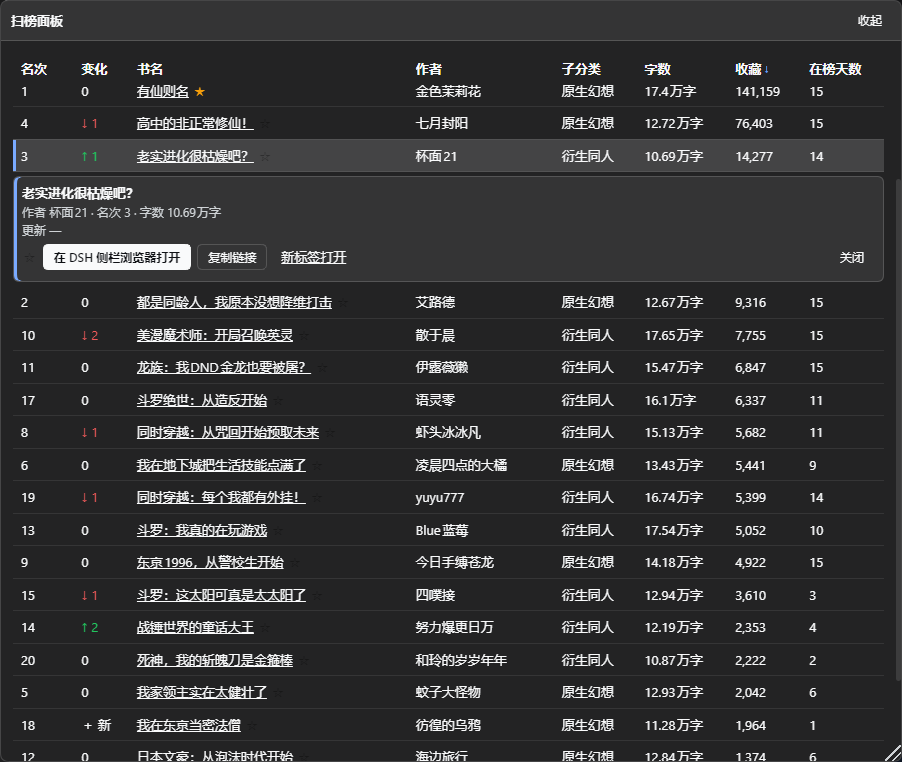
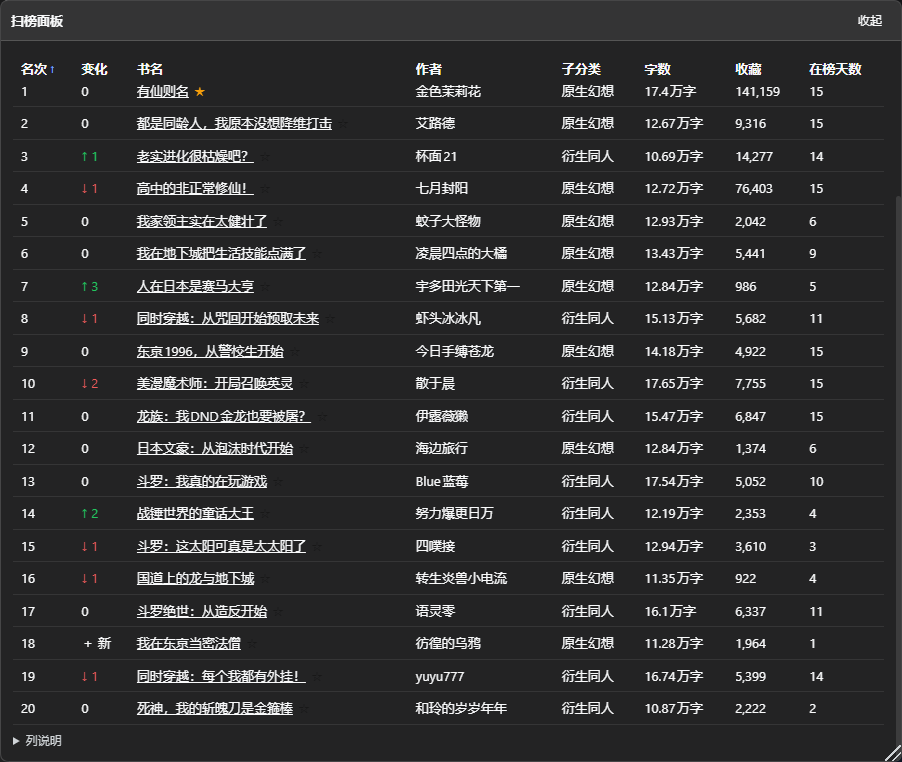
fix(rank-scan): 默认排序改用 defaultSortKey，移除名次排序项
宿主 sortOptions 不再提供 rank；sort=rank 视同未指定。响应新增 defaultSortKey（普通榜 rank 升序、三江 collectBase、派生榜 value 降序），/day 同带。客户端默认态按 defaultSortKey 激活表头，旧 sort=rank 偏好归为默认。新增宿主与客户端测试，重拍 900 暗色默认态截图。

diff --git a/src/index.ts b/src/index.ts
@@ -23,7 +23,7 @@ import { CATEGORIES as QIDIAN_CATEGORIES } from './sites/qidian-mobile.js'
 import { QIDIANTU_BOARDS, periodStartOf } from './sites/qidiantu.js'
 import { deriveFanqieViews } from './scan/derive.js'
 import { decodePua, hasPua, learnPair, loadFontMap, saveFontMap } from './scan/fontmap.js'
-import { applyColumnPolicy, batchKeyOf, batchKindOf, batchLabelOf, boardMeta, columnsFor, compareDesc, defaultSortFor, enrichAttemptPolicy, enrichMissingCount, groupBySite, groupChanges, isBatchBoard, isEnrichableBoard, saleRangeOf, shouldShowDays, usesRankDelta, withFanqieCat } from './scan/view.js'
+import { applyColumnPolicy, batchKeyOf, batchKindOf, batchLabelOf, boardMeta, columnsFor, compareDesc, defaultSortFor, defaultSortKeyFor, enrichAttemptPolicy, enrichMissingCount, groupBySite, groupChanges, isBatchBoard, isEnrichableBoard, saleRangeOf, shouldShowDays, usesRankDelta, withFanqieCat } from './scan/view.js'
 import { BookmarkService, BookmarkStore } from './scan/bookmark.js'
 import { displayLabel, extractTags, parseBookInput, urlFor, type SiteId } from './scan/bookmark-parse.js'
 import { decodeIfPua } from './scan/fontmap.js'
@@ -1649,7 +1649,7 @@ export function apply(ctx: PluginCtx, config: any): void {
       ]
     }
     const main = mainLabelOf(boardId, meta)
-    const opts = [{ value: '', label: '默认（名次）' }, { value: 'rank', label: '名次' }]
+    const opts = [{ value: '', label: '默认（名次）' }]
     // 列名口径：番茄主指标列叫 read（不是 value），排序值必须对上列 key 才不会被客户端过滤掉
     const mainKey = meta.site === 'fanqie' && !boardId.startsWith('fanqie.derived.') ? 'read' : 'value'
     if (meta.metric === 'value') opts.push({ value: mainKey, label: main })
@@ -1662,7 +1662,7 @@ export function apply(ctx: PluginCtx, config: any): void {
     // ★ 兜底过滤（2026-10-15）：排序项必须对应**该榜真实存在的列**，
     //   否则列被口径改掉后（比如三江去掉「已结算天数」），下拉里还残留一个按不存在字段排的项。
     const keys = new Set(applyColumnPolicy(columnsFor(meta, { hasBaseline: flags.hasHistory, hasHistory: flags.hasHistory }), boardId).map((c) => c.key))
-    return opts.filter((o) => !o.value || o.value === 'rank' || keys.has(o.value))
+    return opts.filter((o) => !o.value || keys.has(o.value))
   }
 
   /**
@@ -1703,8 +1703,10 @@ export function apply(ctx: PluginCtx, config: any): void {
   }
 
   async function panelBoard(boardId: string, dateArg?: string, sort?: string, limit = 0) {
+    const wantedSort = sort === 'rank' ? undefined : sort
     const { st, dates, latest } = panelCtx()
     const meta = boardMeta(boardId)
+    const defaultSortKey = defaultSortKeyFor(boardId)
     const store = new FileStore(root)
     /**
      * ★ 日期下拉按**该榜自己有快照的日期**过滤（2026-10-15 使用反馈）：
@@ -1731,7 +1733,7 @@ export function apply(ctx: PluginCtx, config: any): void {
     // 使用者 2026-10-15 点名起点图不要这一列 ⇒ 改成按榜查精简索引里有没有它更早的记录。
     if (!latest) {
       const colsNone = applyColumnPolicy(columnsFor(meta, { hasBaseline: false, hasHistory: false }), boardId)
-      return { boardId, meta, columns: colsNone, dataDate: null, dates: [], rows: [], note: '还没有任何快照：先点「立刻扫一次」' }
+      return { boardId, meta, columns: colsNone, dataDate: null, dates: [], rows: [], defaultSortKey, note: '还没有任何快照：先点「立刻扫一次」' }
     }
     // 到这里 latest 一定非空 ⇒ 把日期收窄成非空的本地量（TS 不会因为 latest 非空就收窄 useDate）
     const date = useDate as string
@@ -1759,12 +1761,13 @@ export function apply(ctx: PluginCtx, config: any): void {
       let rows = (v ? v.rows : []).map((r: any) => ({ ...r, days: r.extra && r.extra.inPoolDays != null ? r.extra.inPoolDays : null }))
       // ★ 派生榜必须**自己**应用排序（2026-10-15 发现「按在读排序没反应」）：
       //   这个分支 return 在通用排序代码**之前**，所以 sort 参数到这里就丢了。
-      const derivedSort = sort || defaultSortFor(boardId)
+      const derivedSort = wantedSort || defaultSortFor(boardId)
       if (derivedSort) rows = rows.slice().sort((a: any, b: any) => compareDesc(num(sortVal(a, derivedSort)), num(sortVal(b, derivedSort))))
       return {
         boardId,
         meta: { ...meta, mainLabel: mainLabelOf(boardId, meta) },
         columns,
+        defaultSortKey,
         sortOptions: sortOptionsFor(boardId, meta, { hasHistory }),
         depth: (st.depths || {})[boardId] ?? 30,
         dataDate: latest,
@@ -1790,7 +1793,7 @@ export function apply(ctx: PluginCtx, config: any): void {
         fallbackFrom = older
       }
     }
-    if (!snap) return { boardId, meta, columns, dataDate: useDate, dates: shownDates, rows: [], note: '该榜在这天没有快照（也没找到更早的可用快照）' }
+    if (!snap) return { boardId, meta, columns, dataDate: useDate, dates: shownDates, rows: [], defaultSortKey, note: '该榜在这天没有快照（也没找到更早的可用快照）' }
     const effDate = fallbackFrom || date
     /**
      * ★ 2026-10-25（批次榜）：这一屏属于哪一批。面板据此把「数据日期 / 对比 YYYY-MM-DD」
@@ -1829,6 +1832,7 @@ export function apply(ctx: PluginCtx, config: any): void {
       return {
         boardId,
         meta: { ...meta, mainLabel: mainLabelOf(boardId, meta) },
+        defaultSortKey,
         sortOptions: sortOptionsFor(boardId, meta, { hasHistory }),
         depth: (st.depths || {})[boardId] ?? (meta.site === 'fanqie' ? 30 : 10),
         columns,
@@ -2030,7 +2034,7 @@ export function apply(ctx: PluginCtx, config: any): void {
     // ★ 排序一律**倒序**（使用者 2026-10-15：按字数/收藏/首订排序要「最大的在前」）：
     //   num() 把缺失值统一成 +Infinity ⇒ 倒序时缺失值会被排到最后（不是最前），这正合口径。
     // ★ 该榜有自己的「默认排序」时，未显式选排序也按它排（使用者 2026-10-15：三江默认按期初收藏）
-    const effSort = sort || defaultSortFor(boardId)
+    const effSort = wantedSort || defaultSortFor(boardId)
     if (effSort) rows = rows.slice().sort((a: any, b: any) => compareDesc(num(sortVal(a, effSort)), num(sortVal(b, effSort))))
     if (limit > 0) rows = rows.slice(0, limit)
     /**
@@ -2064,6 +2068,7 @@ export function apply(ctx: PluginCtx, config: any): void {
     return {
       boardId,
       meta: { ...meta, mainLabel: mainLabelOf(boardId, meta) },
+      defaultSortKey,
       sortOptions: sortOptionsFor(boardId, meta, { hasHistory }),
       depth: (st.depths || {})[boardId] ?? (meta.site === 'fanqie' ? 30 : 10),
       columns,
@@ -3340,6 +3345,7 @@ export function apply(ctx: PluginCtx, config: any): void {
             }
             return send(200, {
               ok: true, boardId, date, saved: !!body.save, contentDate: verdict.contentDate, expected: verdict.expected,
+              defaultSortKey: defaultSortKeyFor(boardId),
               rowsAll: res.rows,
               count: res.rows.length,
               note: (body.save ? '已抓取并存入本地快照' : '直查站点该日期（未落盘）') + (verdict.contentDate ? '；内容日期 ' + verdict.contentDate : ''),

diff --git a/client/parts/70-board.js b/client/parts/70-board.js
@@ -6,14 +6,19 @@
      * 第六步（0.5.2）：榜单表头的排序 / 行键盘用的纯函数。
      * 只消费宿主已经给出的 columns / sortOptions，不做客户端排序，也不新增排序方式。
      */
-    const sortDirOf = function () { return 'descending' }
-    const sortableCols = function (cols, sortOptions) {
+    const sortableCols = function (cols, sortOptions, defKey, defDir) {
       const values = (sortOptions || []).map(function (o) { return o && o.value }).filter(function (v) { return !!v })
-      return (cols || []).filter(function (c) { return c && values.indexOf(c.key) >= 0 }).map(function (c) {
-        return { key: c.key, dir: sortDirOf(c.key) }
+      return (cols || []).filter(function (c) {
+        return c && (values.indexOf(c.key) >= 0 || (!!defKey && c.key === defKey))
+      }).map(function (c) {
+        return { key: c.key, dir: c.key === defKey ? (defDir || 'descending') : 'descending' }
       })
     }
-    const nextSort = function (cur, key) { return cur === key ? '' : key }
+    const nextSort = function (cur, key, defKey) {
+      if (key === defKey) return ''
+      return cur === key ? '' : key
+    }
+    const normalizeSortPref = function (v) { return v === 'rank' ? '' : (v || '') }
     /** 只给行号，详情行不参与；n 是数据行数量 */
     const nextRowIdx = function (i, key, n) {
       const last = Math.max(0, Number(n) - 1)
@@ -41,7 +46,7 @@
       } catch (e) { fail() }
     }
     // 离线测试缝：只暴露第六步的纯函数，不改变运行路径
-    window.__rankScanBoardTableTest = { sortableCols: sortableCols, nextSort: nextSort, nextRowIdx: nextRowIdx }
+    window.__rankScanBoardTableTest = { sortableCols: sortableCols, nextSort: nextSort, nextRowIdx: nextRowIdx, normalizeSortPref: normalizeSortPref }
 
     function BoardTab(props) {
       const ov = props.ov
@@ -55,9 +60,15 @@
       const sites = (ov && ov.sites) || []
       // 收起面板会卸载 BoardTab ⇒ 站/榜选择要持久化；日期/排序按榜各记各的
       const [stSite, setStSite] = React.useState(function () { return sel.get().site })
+      const sortPref = function (board) {
+        const raw = sel.pref(board, 'sort')
+        const v = normalizeSortPref(raw)
+        if (v !== raw) sel.setPref(board, 'sort', v)
+        return v
+      }
       const [bt, setBt] = React.useState(function () { return sel.get().board })
       const [sd, setSd] = React.useState(function () { return sel.pref(sel.get().board, 'date') })
-      const [ss, setSs] = React.useState(function () { return sel.pref(sel.get().board, 'sort') })
+      const [ss, setSs] = React.useState(function () { return sortPref(sel.get().board) })
       const [data, setData] = React.useState(null)
       const [err, setErr] = React.useState(null)
       const [pick, setPick] = React.useState(null)
@@ -154,7 +165,7 @@
           h('select', { value: value, onChange: function (e) { onChange(e.target.value) }, style: C.input },
             options.map(function (o) { return h('option', { key: o.value, value: o.value }, o.label) })))
       }
-      const pickBoard = function (v) { sel.set({ board: v }); setBt(v); setSd(sel.pref(v, 'date')); setSs(sel.pref(v, 'sort')); setPick(null); setDayOpen(false) }
+      const pickBoard = function (v) { sel.set({ board: v }); setBt(v); setSd(sel.pref(v, 'date')); setSs(sortPref(v)); setPick(null); setDayOpen(false) }
       const pickSite = function (v) { sel.set({ site: v, board: null }); setStSite(v); setBt(null); setSd(''); setSs(''); setPick(null); setDayOpen(false) }
       const pickDate = function (v) { setSd(v); sel.setPref(curBoard, 'date', v) }
       /** 「按上架日回看…」是动作项，不是日期值：不改当前选择，只在下面展开输入行 */
@@ -319,6 +330,7 @@
             boardId: curBoard,
             columns: prev.columns || [],
             sortOptions: prev.sortOptions || [],
+            defaultSortKey: (r && r.defaultSortKey) || null,
             rows: (r.rowsAll || []).map(function (x) { return { ...x, delta: null, days: null } }),
             dates: ds,
             dataDate: shown,
@@ -376,7 +388,10 @@
       const dateOptsShown = canDay ? dateOpts.concat([{ value: '__day', label: '按上架日回看…' }]) : dateOpts
       // 减掉正文左右 padding（20）、纵向滚动条与一点余量 ⇒ 表格不会溢出成横向滚动
       const cols = fitColumns(data && data.columns, avail - 48)
-      const sortable = sortableCols(cols, sortOpts)
+      const defaultSort = (data && data.defaultSortKey && data.defaultSortKey.key)
+        ? data.defaultSortKey
+        : { key: 'rank', dir: 'ascending' }
+      const sortable = sortableCols(cols, sortOpts, defaultSort.key, defaultSort.dir)
       const sortableMap = {}
       sortable.forEach(function (c) { sortableMap[c.key] = c.dir })
       const viewDate = (data && (data._queryDate || sd)) || ''
@@ -551,16 +566,17 @@
               : h('table', { ref: listRef, style: C.table },
               h('thead', null, h('tr', null, cols.map(function (c) {
                 const dir = sortableMap[c.key]
-                const active = ss === c.key
+                const active = (ss || defaultSort.key) === c.key
+                const shownDir = active ? (ss ? dir : defaultSort.dir) : dir
                 return h('th', {
                   key: c.key, style: C.th, title: c.note || '',
-                  'aria-sort': active ? dir : undefined,
+                  'aria-sort': active ? shownDir : undefined,
                 }, dir
                   ? h('button', {
                       className: 'rs-th-sort',
-                      title: active ? '取消按 ' + c.label + ' 排序' : '按 ' + c.label + ' 排序',
-                      onClick: function (e) { e.stopPropagation(); pickSort(nextSort(ss, c.key)) },
-                    }, c.label, h('span', { className: 'rs-sort-arrow' + (active ? ' is-on' : ''), 'aria-hidden': 'true' }, dir === 'ascending' ? '↑' : '↓'))
+                      title: active && !ss ? '当前为默认排序' : active ? '取消按 ' + c.label + ' 排序' : '按 ' + c.label + ' 排序',
+                      onClick: function (e) { e.stopPropagation(); pickSort(nextSort(ss, c.key, defaultSort.key)) },
+                    }, c.label, h('span', { className: 'rs-sort-arrow' + (active ? ' is-on' : ''), 'aria-hidden': 'true' }, shownDir === 'ascending' ? '↑' : '↓'))
                   : c.label)
               }))),
               h('tbody', { onKeyDown: onRowsKeyDown }, data.rows.flatMap(function (r, i) {

diff --git a/src/scan/view.ts b/src/scan/view.ts
@@ -449,6 +449,16 @@ export function defaultSortFor(boardId: string): string | null {
 }
 
 /**
+ * 面板表头默认激活列（纯函数）：普通榜名次升序；三江期初收藏；番茄派生榜今日涨幅。
+ * 只描述**显示方向**，真正排序仍由 host 的 effSort/compareDesc 执行。
+ */
+export function defaultSortKeyFor(boardId: string): { key: string; dir: 'ascending' | 'descending' } {
+  if (boardId.startsWith('fanqie.derived.')) return { key: 'value', dir: 'descending' }
+  if (boardId === 'qidiantu.sanjiang') return { key: 'collectBase', dir: 'descending' }
+  return { key: 'rank', dir: 'ascending' }
+}
+
+/**
  * 番茄分类 id → 中文名（纯函数、可单测）。
  * ★ 2026-10-15 使用反馈「周榜的作品分类为什么不显示」：番茄的行把分类存在 `extra.catId`（数字），
  *   而列渲染读的是 `extra.cat`（起点/起点图/刺猬猫那是文本）⇒ 番茄这边**永远显示「—」**。

diff --git a/docs/handoff-2026-10-28-ui-step6-board-table.md b/docs/handoff-2026-10-28-ui-step6-board-table.md
@@ -3,14 +3,18 @@
 - 分支：ui/step6-board-table（从 v0.5.1 合并后的 main 拉出）
 - 版本：0.5.2
 - 状态：**已实现，未合并 main、未打 tag**，等验收。
-- 改动文件：client/parts/70-board.js（主要）、client/parts/10-tokens.js（通用 hover/focus/排序箭头样式）；55-board-cell.js 未改。
+- 改动文件：client/parts/70-board.js（主要）、client/parts/10-tokens.js（通用 hover/focus/排序箭头样式）、src/index.ts + src/scan/view.ts（宿主 sortOptions / defaultSortKey）；55-board-cell.js 未改。
 
 ## 做了什么
 
+0. 宿主排序口径
+   - sortOptionsFor 不再提供「名次」排序项；sort=rank 视同未指定。
+   - 响应新增 defaultSortKey：普通榜 rank 升序、三江 collectBase 降序、番茄派生榜 value 降序；/day 也带。
+
 1. 点表头排序
-   - 表头列 key 在当前榜 sortOptions 的 value 里时，th 内渲染 button（无边框、继承字体）；名次列对应 rank。
+   - 可点列 = 当前榜 sortOptions 里有对应 value 的列 + defaultSortKey 对应的默认列；th 内渲染 button（无边框、继承字体）。
    - 未激活列点击后按该列排序；再点激活列回到 ''。和上方「排序」下拉共用 ss 与 sel.setPref。
-   - 激活列显示方向箭头（所有排序列都是 ↓），th 带 aria-sort；未激活可排序列 hover/focus 显示淡色箭头。
+   - 默认态激活 defaultSortKey 对应列（普通榜名次 ↑，三江/派生榜 ↓）；显式排序一律 ↓；th 带 aria-sort，未激活可排序列 hover/focus 显示淡色箭头。
    - 排序切换收起详情，并把列表滚回顶部（listRef.scrollIntoView block:start）。
 2. 展开行
    - 表格行与窄屏卡片都有 aria-expanded。
@@ -31,22 +35,23 @@
 ## 口径 / 偏差
 
 - 只展示当前 fitColumns 后仍在表格里的列对应的排序入口；被宽度收起的列不生成表头，但仍可用上方排序下拉（下拉本来就保留给窄屏卡片和无对应列的排序项）。
-- 宿主 sortOptions 没有方向字段；src/index.ts 的 effSort 对包括 rank 在内的所有排序都用 compareDesc（倒序），客户端一律 descending / ↓，不设 rank 特例。
+- 宿主 sortOptions 不再提供「名次」项；默认态由响应的 defaultSortKey 表达（普通榜 rank 升序、三江 collectBase 降序、番茄派生榜 value 降序）。显式排序一律倒序，客户端箭头按 defaultSortKey / descending 显示；旧 sort=rank 请求视同未指定。
 - 行的键盘导航用 data-row-idx + 容器 onKeyDown，没有为每行建 ref 数组。
 - 55-board-cell.js 未改；通用排序箭头/focus 样式放在 10-tokens.js，已在改动文件里说明。
 - 测试缝 window.__rankScanBoardTableTest 仍常驻挂载；仓库没有统一的测试环境开关，本步不为此扩大改动。
 
 ## 测试与冒烟
 
-- 新增 tests/ui-board-table.test.mjs：sortableCols、nextSort、nextRowIdx、aria/复制 Promise 源码断言，4/0。
-- test-local：**422 pass / 0 fail**（55 文件）。
-- acceptance -SkipLive：**PASS 98 / FAIL 0**。
-- 手工冒烟：900px 表头名次/字数切换与下拉同步、再点回默认、切榜保持偏好；行 ↑/↓/Home/End/Enter/Esc 与 480px 卡片重复通过；复制链接 success 与禁用 clipboard 的 warn 都出现；暗色 focus 蓝框可见。
+- 新增 tests/ui-board-table.test.mjs：sortableCols、nextSort、nextRowIdx、旧偏好归一、aria/复制 Promise 源码断言，4/0。
+- 新增 tests/default-sort-key.test.mjs：defaultSortKeyFor 三种榜、sortOptions 无 rank、sort=rank 与不传 sort 顺序一致、/day 也带 defaultSortKey，3/0。
+- test-local：**425 pass / 0 fail**（56 文件）。
+- acceptance -SkipLive：**PASS 99 / FAIL 0**。
+- 手工冒烟：默认态名次 ↑、下拉显示「默认（名次）」且无 rank 选项；900px 表头切换与下拉同步、再点回默认、切榜保持偏好；行 ↑/↓/Home/End/Enter/Esc 与 480px 卡片重复通过；复制链接 success 与禁用 clipboard 的 warn 都出现；暗色 focus 蓝框可见。
 
 ## 截图
 
 - 900px 亮色（收藏↓ + 展开一行，展开行在 sticky 表头下方）：docs/screenshots/step6-board-table/step6-board-table-900-light.png
-- 900px 暗色同一状态：docs/screenshots/step6-board-table/step6-board-table-900-dark.png
+- 900px 暗色默认态（名次 ↑ + 下拉「默认（名次）」）：docs/screenshots/step6-board-table/step6-board-table-900-dark.png
 - 480px 真正暗色卡片展开 + 另一张 focus 框：docs/screenshots/step6-board-table/step6-board-table-480-dark-card.png
 
 ## 下一步

diff --git a/CHANGELOG.md b/CHANGELOG.md
@@ -10,7 +10,7 @@
 
 ### 变更
 
-- 表头排序：当前榜 sortOptions 里有对应列的，表头变成按钮；再点激活列回到默认。与上方排序下拉共用同一状态，方向箭头名次↑、其余↓。
+- 表头排序：当前榜 sortOptions 里有对应列的，表头变成按钮；再点激活列回到默认；移除「名次」排序项（默认即名次升序），旧偏好自动归为默认。与上方排序下拉共用同一状态。
 - 展开行：表格行与窄屏卡片带 aria-expanded；展开行/卡片加底色与 3px 强调色左条，详情卡动作顺序调整为打开、复制、新标签、关闭。
 - 键盘：行内 ↑/↓/Home/End 移动焦点，Enter/空格展开，Esc/关闭回到原行；链接、星标、输入框上不拦截方向键。
 - 复制链接改为 Promise 成功/失败 Toast；表格下方说明收进默认折叠的「列说明」。
